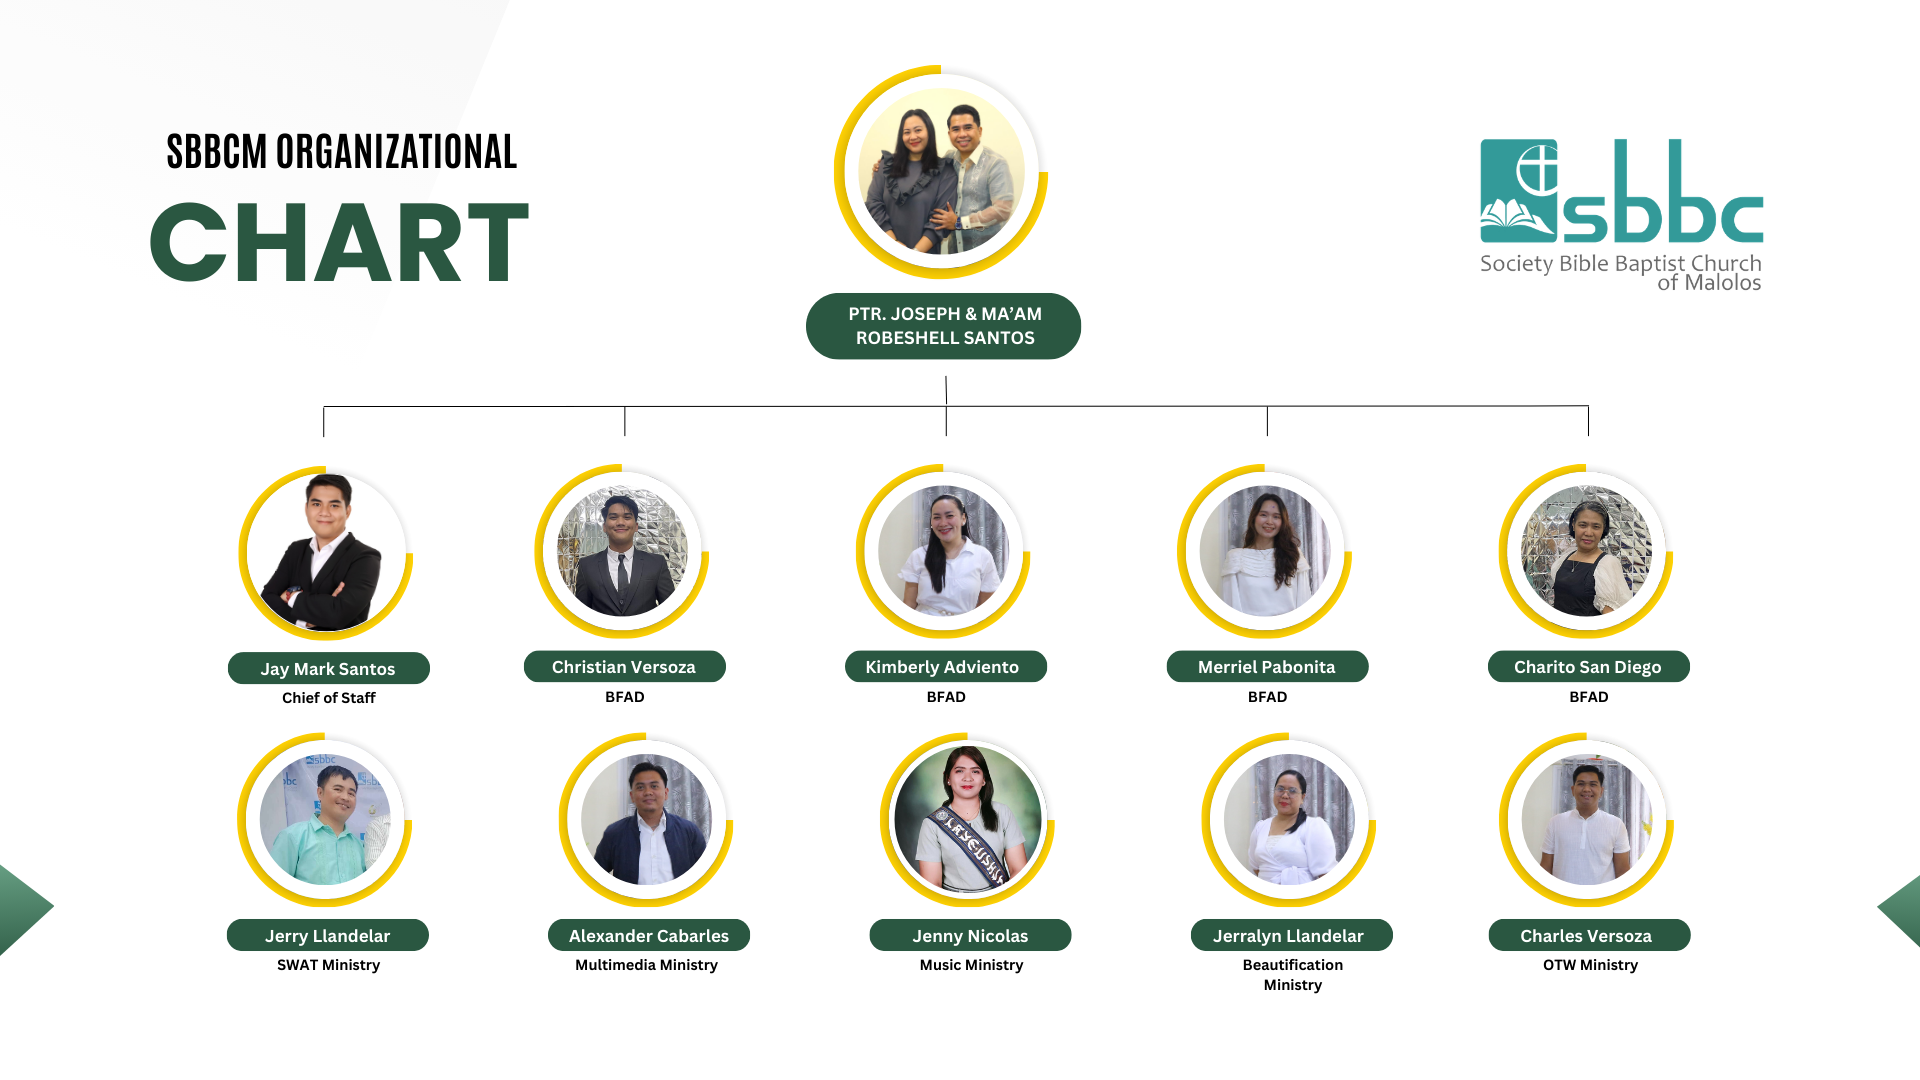
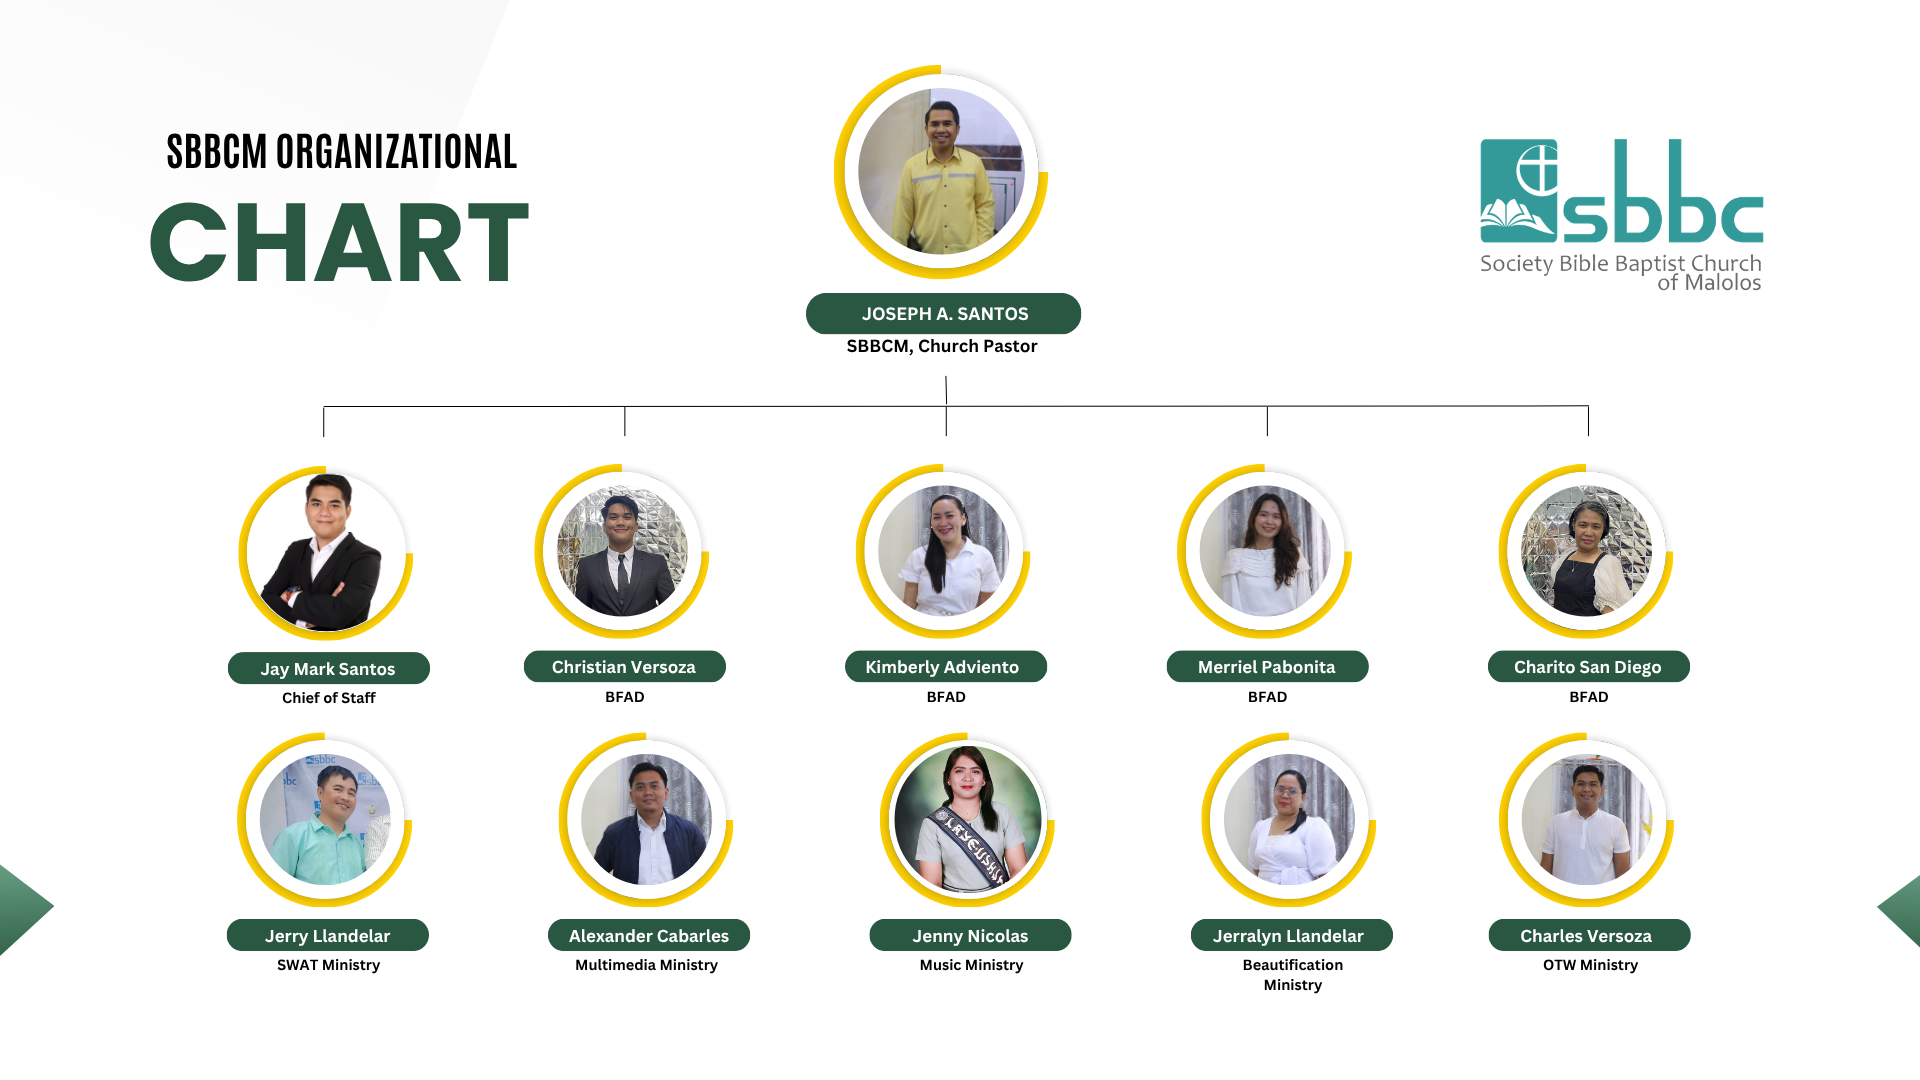
updated website for the month of June

Changed region(s): [[0.4375, 0.0611, 0.5312, 0.2444], [0.4062, 0.275, 0.5625, 0.3361]]

diff --git a/index.html b/index.html
@@ -40,7 +40,8 @@
         Through God’s grace, dedication of church leaders, and the commitment of its members, the mission continued to
         grow spiritually and numerically. As the ministry expanded, the church was relocated to Canalate, where it was
         formally established as a local church. Since 2018, SBBC Malolos in Canalate has continued its
-        mission and vision of proclaiming the Gospel, nurturing believers, and serving the community, remaining steadfast in faith
+        mission and vision of proclaiming the Gospel, nurturing believers, and serving the community, remaining
+        steadfast in faith
         and committed to God’s work.
       </p>
     </div>
@@ -93,28 +94,31 @@
     <div class="event-container">
       <div class="manual-grid1">
         <div class="event-card">
-          <h2>March Activities</h2>
-          <p><strong>13: Ladies Fellowship </strong></p>
-          <p><strong>20: Men's Fellowship </strong></p>
-          <p><strong>26-27: Missions Conference </strong></p>
-          <p><strong>29: Missions Sunday </strong></p>
+          <h2>June Activities</h2>
+          <p><strong>19: Ladies Fellowship </strong></p>
+          <p><strong>21: Father's Sunday <br>Hosts: Sis. Jing and All Married
+              Ladies </strong></p>
+          <p><strong>26: Men's Fellowship </strong></p>
+          <p><strong>28: Lord's Table</strong></p>
         </div>
         <div class="event-card">
-          <h2>April Activities</h2>
-          <p><strong>3: Siete Palabra </strong></p>
-          <p><strong>4: Beloved Pastor Joseph's Birthday </strong></p>
-          <p><strong>5: Pastor Joseph & Wife Wedding Anniversary </strong></p>
-          <p><strong>26: Pastor's Appreciation Sunday </strong></p>
+          <h2>July Activities</h2>
+          <p><strong>5-26: Bible Emphasis <br>
+              Hosts: Pr. Jay Mark and
+              All Married Men </strong></p>
+          <p><strong>24: Ladies Fellowship </strong></p>
+          <p><strong>28: Pastor Emeritus' Birthday </strong></p>
+          <p><strong>31: Men's Fellowship </strong></p>
         </div>
         <div class="event-card">
-          <h2>May Activities</h2>
-          <p><strong>3: Ministers' Sunday</strong></p>
-          <p><strong>5-8: Daily Vacation Bible School Hosts: Sis. Kim, Sis. Jerralyn, Sis. Jenny, Sis. Carmela, Sis. Marian</strong></p>
-          <p><strong>10: Mother's Sunday Hosts: Bro. Alex and all Unmarried / Young People</strong></p>
-          <p><strong>22: Ladies Fellowship</strong></p>
-          <p><strong>29: Men's Fellowship</strong></p>
-          <p><strong>31: Back to School Sunday Hosts: Brethren Abroad</strong></p>
-          <p><strong>TBA: YP Fellowship in the Afternoon</strong></p>
+          <h2>August Activities</h2>
+          <p><strong>9: Pastor Dong's Birthday </strong></p>
+          <p><strong>14: Ladies Fellowship </strong></p>
+          <p><strong>21: Men's Fellowship </strong></p>
+          <p><strong>28-30: Baptist Distinctive Conference
+              Hosts: Pr. Christian and All Church
+              Preachers</strong></p>
+          
         </div>
       </div>
     </div>
